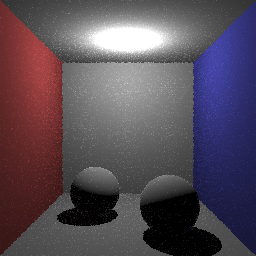
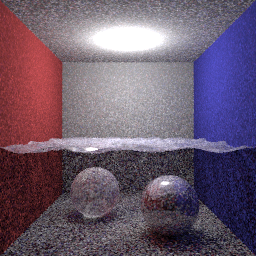
lab 4 done

diff --git a/src/photonmapper.cpp b/src/photonmapper.cpp
@@ -27,8 +27,10 @@ const bool sampling = true;
 const int maxDepth = 4;
 const float p_abs = 0.1f;
 const float abs_factor = 1.0f / (1.0f - p_abs);
-const float startRadius = 0.9f;
+const float startRadius = 0.5f;
 const int numberPhotons = 100000;
+const float radiusReduction = 0.7f;
+const int maxForwardPassDepth = 4;
 
 /**
  * Creates a Path raytracer. The parameters are passed on to the base class constructor.
@@ -61,7 +63,9 @@ void PhotonMapper::computeImage()
 	forwardPass();
 	cout << "Forward pass done" << endl;
 	for (int i = 0; i < 10; ++i){
+		cout << "Starting photon tracing pass " << i << endl;
 		photonTracingPass();
+		cout << "Photon tracing pass " << i << " done" << endl;
 		output(i);
 	}
 	
@@ -120,29 +124,50 @@ void PhotonMapper::forwardPassPixel(int x, int y){
 			float cy = (float)y + i / samplesPerAxis + uniform() / samplesPerAxis;
 			Ray ray = mCamera->getRay(cx, cy);
 			
-			Intersection is;
-			if (mScene->intersect(ray, is)){
-				Hitpoint* hp = new Hitpoint();
-				hp->pixelX = x;
-				hp->pixelY = y;
-				hp->is = is;
-				hp->radius = startRadius;
-				hp->pixelWeight = 1 / nbrSamples;
-				
-				for (int i = 0; i < mScene->getNumberOfLights(); ++i){
-					PointLight* l = mScene->getLight(i);
-					if (!mScene->intersect(is.getShadowRay(l))){
-						Vector3D lightVec = l->getWorldPosition() - is.mPosition;
-						float d2 = lightVec.length2();
-						lightVec.normalize();
-						Color radiance = l->getRadiance();
-						Color brdf = is.mMaterial->evalBRDF(is, lightVec);
-						float angle = max(lightVec * is.mNormal, 0.0f);
-						hp->directIllumination += radiance * brdf * angle / d2;
-					}
+			forwardPassRay(ray, x, y, 1 / nbrSamples, 0);
+		}
+	}
+}
+
+void PhotonMapper::forwardPassRay(Ray ray, int x, int y, float weight, int depth){
+	Intersection is;
+	if (weight > 0 && depth < maxForwardPassDepth && mScene->intersect(ray, is)){
+		Hitpoint* hp = new Hitpoint();
+		hp->pixelX = x;
+		hp->pixelY = y;
+		hp->is = is;
+		hp->radius = startRadius;
+		hp->pixelWeight = weight;
+
+		Color reflectedC, refractedC, emittedC;
+		Material* m = is.mMaterial;
+		float reflectivity = m->getReflectivity(is);
+		float transparency = m->getTransparency(is);
+		float diffuse = (1.0f - reflectivity - transparency);
+
+		if (reflectivity > 0.0f) {
+			Ray reflectedRay = is.getReflectedRay();
+			forwardPassRay(reflectedRay, x, y, reflectivity * weight, depth+1);
+		}
+		if (transparency > 0.0f) {
+			Ray refractedRay = is.getRefractedRay();
+			forwardPassRay(refractedRay, x, y, transparency * weight, depth+1);
+		}
+
+		if (diffuse){
+			for (int i = 0; i < mScene->getNumberOfLights(); ++i){
+				PointLight* l = mScene->getLight(i);
+				if (!mScene->intersect(is.getShadowRay(l))){
+					Vector3D lightVec = l->getWorldPosition() - is.mPosition;
+					float d2 = lightVec.length2();
+					lightVec.normalize();
+					Color radiance = l->getRadiance();
+					Color brdf = is.mMaterial->evalBRDF(is, lightVec);
+					float angle = max(lightVec * is.mNormal, 0.0f);
+					hp->directIllumination += radiance * brdf * angle / d2;
 				}
-				vec.push_back(hp);
 			}
+			vec.push_back(hp);
 		}
 	}
 }
@@ -179,6 +204,26 @@ void PhotonMapper::trace(const Ray& ray, int depth, const Color& flux)
 	Color lIndirect = Color(0.0f, 0.0f, 0.0f);
 
 	if (mScene->intersect(ray, is)){
+
+		if (depth != 0){
+			Hitpoint hp;
+			hitpointBVH.intersect(is, flux);
+
+			float type = uniform();
+
+			float reflectivity = is.mMaterial->getReflectivity(is);
+			float transparency = is.mMaterial->getTransparency(is);
+
+			if (type <= reflectivity){
+				trace(is.getReflectedRay(), depth + 1, flux);
+				return;
+			}
+			else if (type - reflectivity <= transparency){
+				trace(is.getRefractedRay(), depth + 1, flux);
+				return;
+			}
+		}
+
 		if (depth < maxDepth || uniform() > p_abs){
 			float theta = acos(sqrt(1 - uniform()));
 			float phi = 2 * M_PI * uniform();
@@ -201,14 +246,11 @@ void PhotonMapper::trace(const Ray& ray, int depth, const Color& flux)
 			Ray ray2;
 			ray2.orig = is.mPosition;
 			ray2.dir = dir;
-			Color addFlux = flux;
-			if (depth != 1){
-				Hitpoint hp;
-				addFlux = flux * is.mMaterial->evalBRDF(is, -dir);
-				if (depth > maxDepth)
-					addFlux *= abs_factor;
-				hitpointBVH.intersect(is.mPosition, addFlux);
-			}
+			Color addFlux = M_PI * is.mMaterial->evalBRDF(is, ray.dir) * flux * (is.mNormal * dir);
+			
+			if (depth >= maxDepth)
+				addFlux *= abs_factor;
+
 			trace(ray2, depth + 1, addFlux);
 		}
 	}
@@ -219,10 +261,30 @@ void PhotonMapper::output(int i){
 		Color flux = hp->totalFlux;
 		float rad = hp->radius;
 		Color out = hp->directIllumination + hp->totalFlux / (numberPhotons * (i+1) * M_PI * hp->radius * hp->radius);
-		mImage->setPixel(hp->pixelX, hp->pixelY, out);
+		mImage->setPixel(hp->pixelX, hp->pixelY, out*hp->pixelWeight + mImage->getPixel(hp->pixelX, hp->pixelY));
 	}
 
 	stringstream ss;
 	ss << "output_photon_" << i << ".png";
 	mImage->save(ss.str());
+	
+	for (Hitpoint* hp : hitpointBVH.objs){
+		//reduce radius
+		float A = hp->photonCount + hp->newPhotonCount;
+		float B = hp->photonCount + radiusReduction * hp->newPhotonCount;
+		if (A != 0){
+			hp->radius *= sqrt(B / A);
+			hp->totalFlux *= B / A;
+			hp->photonCount = B;
+			hp->newPhotonCount = 0;
+			mImage->setPixel(hp->pixelX, hp->pixelY, Color(0, 0, 0));
+		}
+	}
+	
+	/*
+	for (int x = 0; x < mImage->getWidth(); ++x){
+		for (int y = 0; y < mImage->getHeight(); ++y){
+			mImage->setPixel(x,y,Color(0,0,0));
+		}
+	}*/
 }

diff --git a/src/bvhhitpointaccelerator.cpp b/src/bvhhitpointaccelerator.cpp
@@ -135,7 +135,7 @@ void BVHHitpointAccelerator::build_recursive(int left_index, int right_index, BV
 	build_recursive(split_index, right_index, rightNode, depth + 1);
 }
 
-bool BVHHitpointAccelerator::intersect(const Point3D& point, Color addFlux)
+void BVHHitpointAccelerator::intersect(const Intersection& is, Color addFlux)
 {
 	float tmin, tmax;
 	stack<BVHNode*> nodeStack;
@@ -146,16 +146,15 @@ bool BVHHitpointAccelerator::intersect(const Point3D& point, Color addFlux)
 		nodeStack.pop();
 		AABB bb = node->getAABB();
 
-		if (intersectAABB(point, bb)){
+		if (intersectAABB(is.mPosition, bb)){
 
 			if (node->isLeaf()){
 				for (int i = node->getIndex(); i < node->getIndex() + node->getNObjs(); ++i){
 					Hitpoint* obj = objs[i];
-					Vector3D dist(point - obj->is.mPosition);
+					Vector3D dist(is.mPosition - obj->is.mPosition);
 					if ( dist.length2() <= obj->radius * obj->radius ){
 						obj->newPhotonCount += 1;
-						obj->totalFlux += addFlux;
-						return true;
+						obj->totalFlux += addFlux * obj->is.mMaterial->evalBRDF(obj->is, -is.mRay.dir);
 					}
 				}
 			}
@@ -163,16 +162,15 @@ bool BVHHitpointAccelerator::intersect(const Point3D& point, Color addFlux)
 				BVHNode* left = nodes[node->getIndex()];
 				BVHNode* right = nodes[node->getIndex() + 1];
 
-				if (intersectAABB(point, right->getAABB())){
+				if (intersectAABB(is.mPosition, right->getAABB())){
 					nodeStack.push(right);
 				}
-				if (intersectAABB(point, left->getAABB())){
+				if (intersectAABB(is.mPosition, left->getAABB())){
 					nodeStack.push(left);
 				}
 			}
 		}
 	}
-	return false;
 }
 
 

diff --git a/src/cornellscene.cpp b/src/cornellscene.cpp
@@ -22,7 +22,7 @@ void buildCornellScene(Scene* scene)
 	Diffuse* reflect = new Diffuse(Color(0.7f, 0.7f, 0.7f), 0.5f, 0.0f, 1.0f);
 	Diffuse* refract = new Diffuse(Color(0.7f, 0.7f, 0.7f), 0.0f, 0.5f, 1.5f);
 
-	Mesh* ground = new Mesh("data/plane.obj", reflect);
+	Mesh* ground = new Mesh("data/plane.obj", white);
 	ground->setScale(150.0f);
 	scene->add(ground);
 	
@@ -49,6 +49,13 @@ void buildCornellScene(Scene* scene)
 	roof->setRotation(180.0f, 0.0f, 0.0f);
 	roof->setTranslation(0.0f, 120, 0.0f);
 	scene->add(roof);
+
+	Diffuse* water = new Diffuse(Color(0.6f, 0.6f, 0.7f),
+		0.2f, 0.7f, 1.33f);
+	Mesh* surface = new Mesh("data/surface.obj", water);
+	surface->setScale(120.0f);
+	surface->setTranslation(0.0f, 50.0f, 0.0f);
+	scene->add(surface);
 	
 	
 	Sphere* ball1 = new Sphere(16.5f, reflect);

diff --git a/src/pathtracer.cpp b/src/pathtracer.cpp
@@ -117,7 +117,7 @@ Color PathTracer::tracePixel(int x, int y)
  */
 Color PathTracer::trace(const Ray& ray, int depth)
 {
-	Color colorOut = Color(1.0f,1.0f,1.0f);
+	Color colorOut = Color(0.0f, 0.0f, 0.0f);//Color(1.0f,1.0f,1.0f);
 	Intersection is;
 	if (mScene->intersect(ray, is)){
 		Color reflectedC, refractedC, lDirect, lIndirect;
@@ -182,7 +182,7 @@ Color PathTracer::trace(const Ray& ray, int depth)
 		}			
 	}
 	else{
-		colorOut = lp.getRadiance(ray.dir);
+		//colorOut = lp.getRadiance(ray.dir);
 	}
 return colorOut;	
 }

diff --git a/src/bvhhitpointaccelerator.h b/src/bvhhitpointaccelerator.h
@@ -34,7 +34,7 @@ public:
 
 	virtual void build(const std::vector<Hitpoint*>& objects);
 	void build_recursive(int left_index, int right_index, BVHNode* node, int depth);
-	virtual bool intersect(const Point3D& point, Color addFlux);
+	virtual void intersect(const Intersection& is, Color addFlux);
 	void print_rec(BVHNode& node, int depth);
 	void print();
 };

diff --git a/src/photonmapper.h b/src/photonmapper.h
@@ -32,6 +32,7 @@ public:
 protected:
 	void forwardPass();
 	void forwardPassPixel(int x, int y);
+	void forwardPassRay(Ray ray, int x, int y, float weight, int depth);
 	void photonTracingPass();
 	void trace(const Ray& ray, int depth, const Color& flux);
 	void output(int i);
